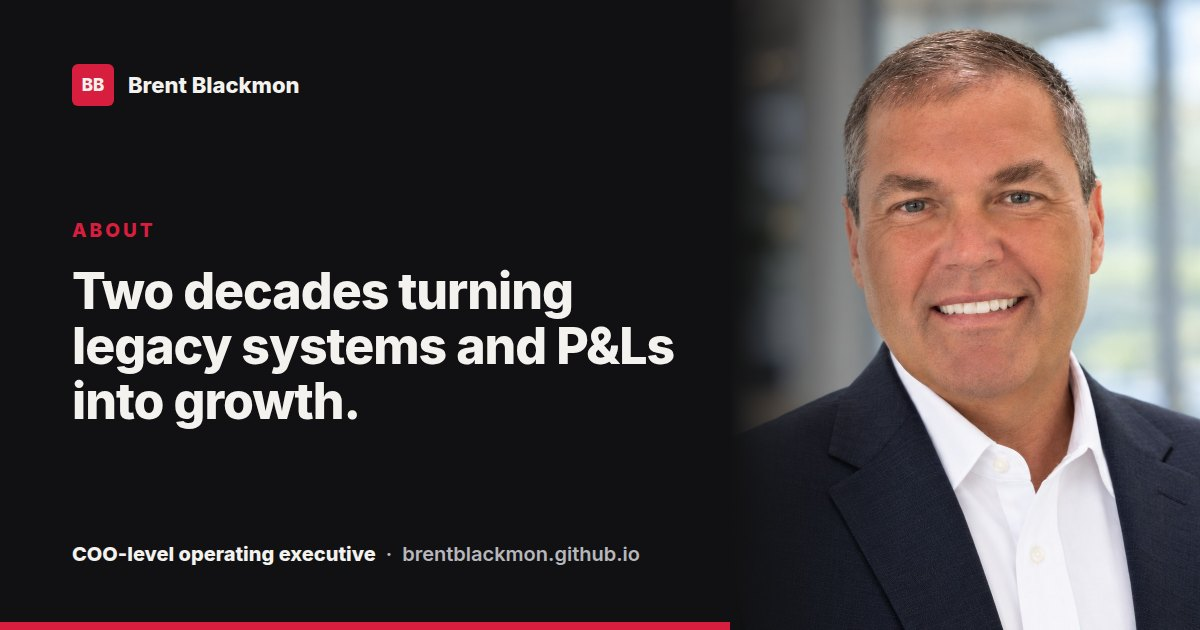
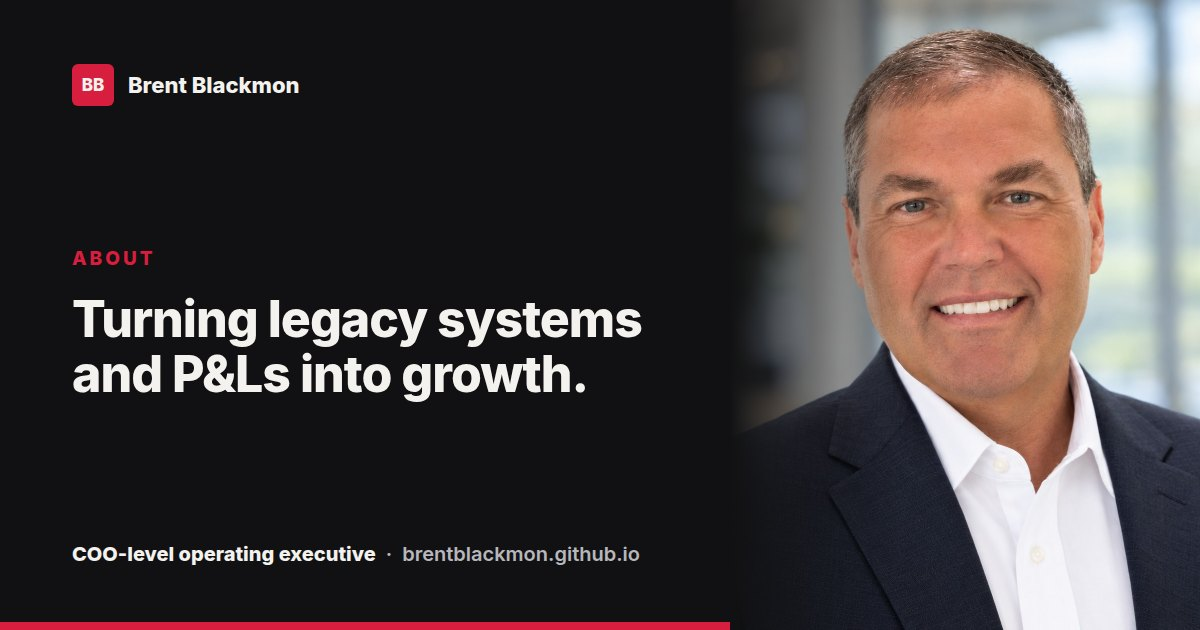
Home: PE-backed and enterprise software; refresh share images
Claude-Session: https://claude.ai/code/session_01893TGUdewNs1s2TrXbwTTr

Changed region(s): [[0.0617, 0.3317, 0.5858, 0.6937]]

diff --git a/index.html b/index.html
@@ -38,7 +38,7 @@
 <div class="hero-grid">
 <div>
   <div class="eyebrow">COO-LEVEL OPERATING EXECUTIVE, <b>BUILT TO SHIP</b></div>
-  <h1 class="hero-title">I run strategy, operations, and delivery for <span class="nw">PE-backed</span> companies, <span class="accent">and put AI to work where it moves the P&amp;L.</span></h1>
+  <h1 class="hero-title">I run strategy, operations, and delivery for <span class="nw">PE-backed</span> and enterprise software companies, <span class="accent">and put AI to work where it moves the P&amp;L.</span></h1>
   <p class="hero-sub">Most recently Chief Strategy Officer and EOS Integrator at a private-equity-backed ERP software and services company, with COO-level scope across multiple business units. I turn around underperforming units, build the operating cadence, and ship the AI that makes it stick, not just plan it.</p>
   <div class="hero-links">
     <a class="pill solid" href="work/index.html">See the work</a>
@@ -67,7 +67,7 @@
     </div>
     <div class="stat-card">
       <div class="stat-num">$1M+</div>
-      <div class="stat-label">new revenue within three quarters from the AI business I built from scratch, with two dozen-plus new IP solutions</div>
+      <div class="stat-label">new revenue within three quarters from the AI business I built from scratch</div>
     </div>
   </section>
 
